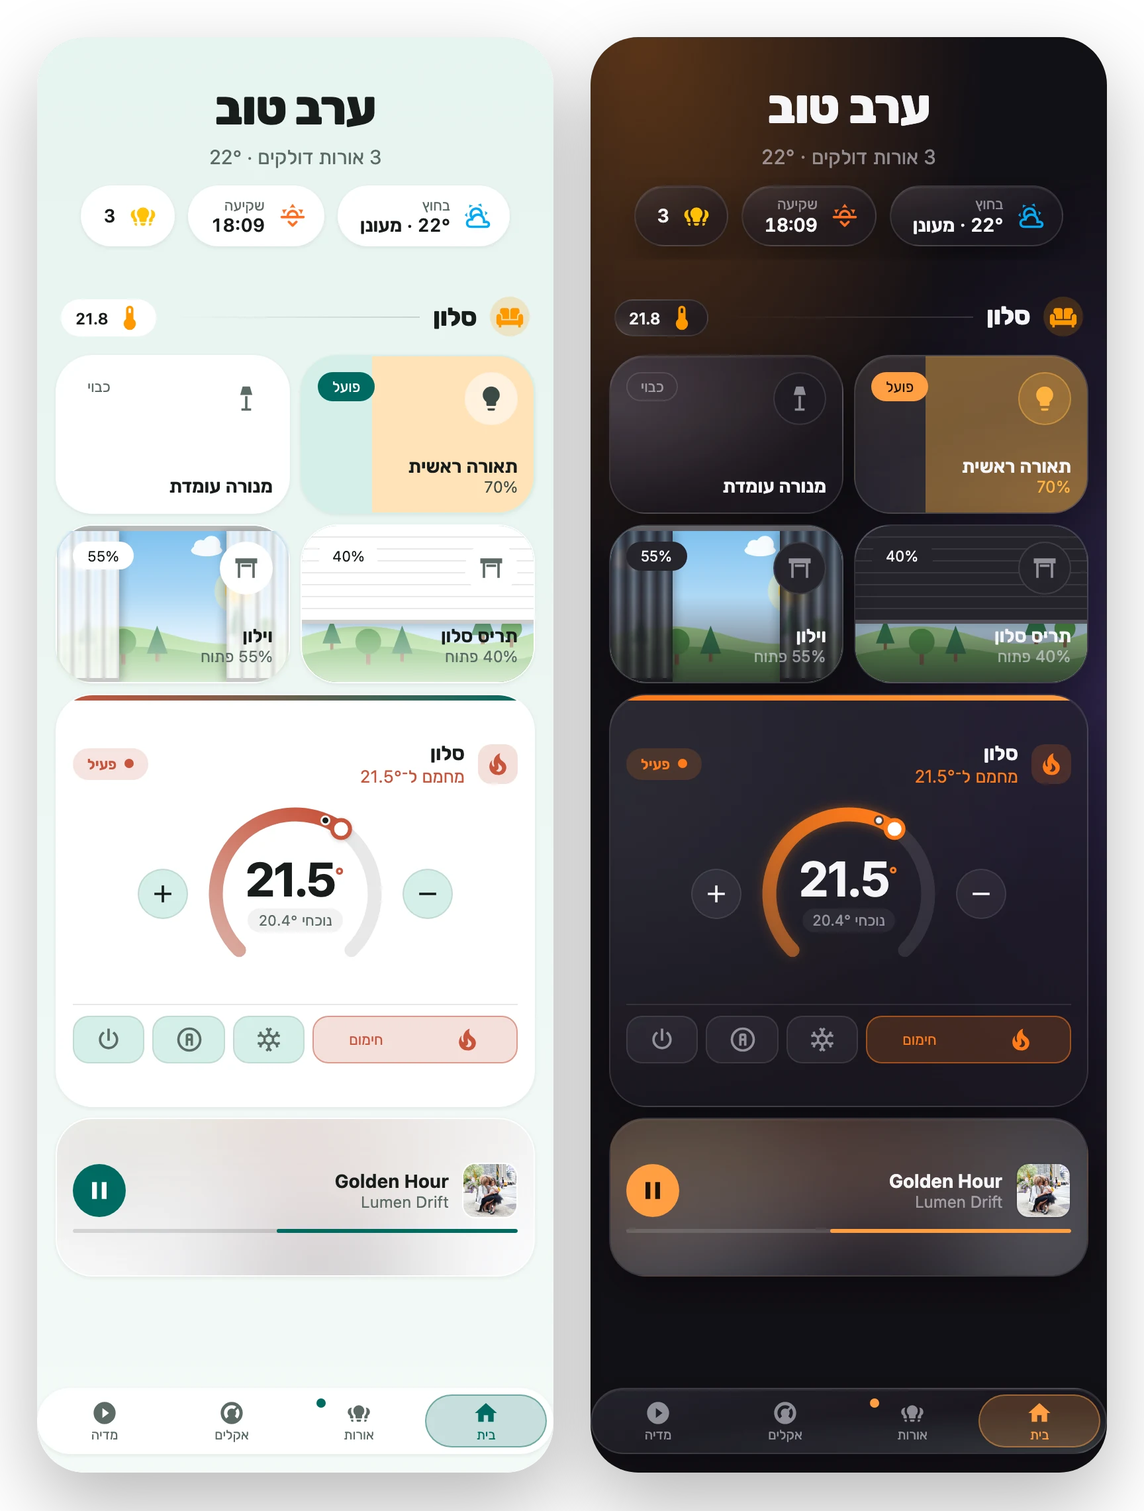
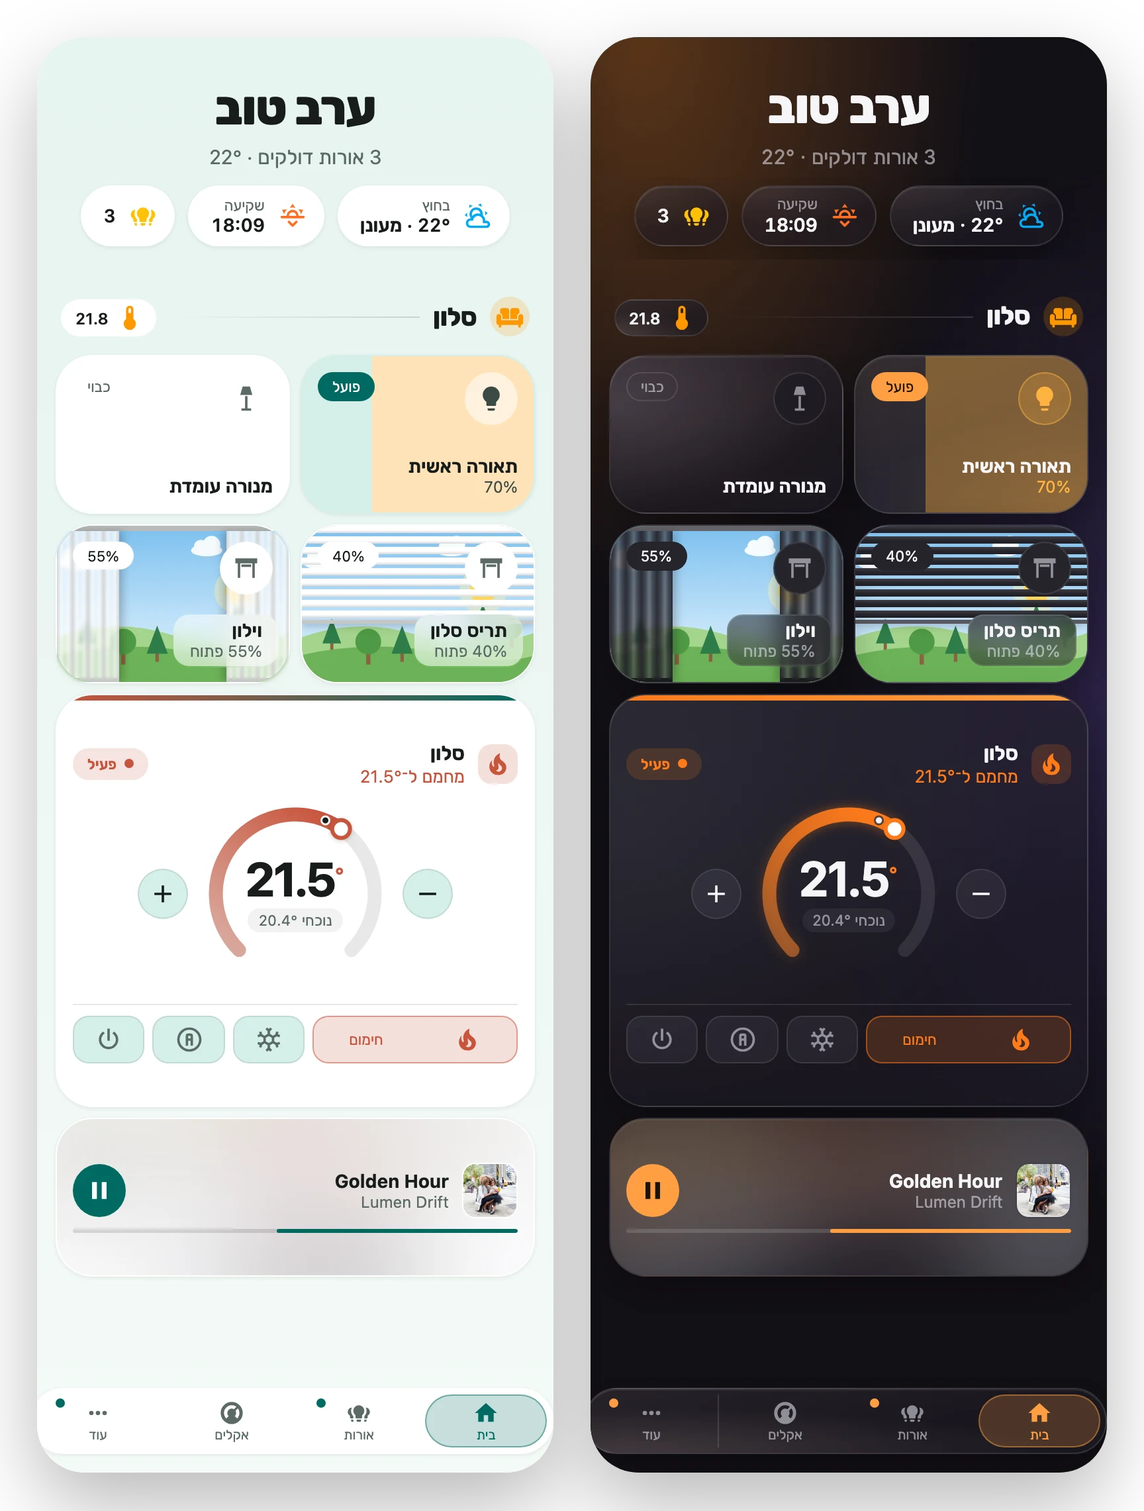
README: a GIF of all eight cover styles moving sits at the top, a What's new section (cover styles, smooth motion, More menu), refreshed screenshots (covers show every style, hero with a Venetian tile and a More menu, nav with the menu open); the nav menu now opens inwards from the bar's own centre 

diff --git a/playground/shots.ts b/playground/shots.ts
@@ -5,7 +5,7 @@ import { entity as e, getHass, patchState, replaceStates, setLanguage, subscribe
 
 type Cfg = Record<string, any>;
 type Mode = "dark" | "light";
-interface Panel { theme: string; mode: Mode; cards: Cfg[]; label?: string; short?: boolean; width?: number; height?: number }
+interface Panel { theme: string; mode: Mode; cards: Cfg[]; label?: string; short?: boolean; width?: number; height?: number; span?: number }
 
 const now = new Date().toISOString();
 const at = (h: number, m: number) => { const d = new Date(); d.setHours(h, m, 0, 0); return d.toISOString(); };
@@ -19,6 +19,12 @@ const EN = [
   e("cover.office", "open", { friendly_name: "Office Shutter", current_position: 70 }),
   e("cover.curtains", "open", { friendly_name: "Curtains", device_class: "curtain", current_position: 55 }),
   e("cover.bedroom", "open", { friendly_name: "Bedroom Drapes", device_class: "curtain", current_position: 30 }),
+  // One per cover style, for the styles GIF and stills
+  ...([
+    ["blind", "Blind"], ["bottom_up", "Bottom-up shade"], ["roman", "Roman shade"], ["venetian", "Venetian"],
+    ["shutter", "Roller shutter"], ["curtain", "Curtains"], ["curtain_side", "One-side curtain"], ["vertical", "Vertical blinds"],
+  ] as const).map(([style, name]) =>
+    e(`cover.style_${style}`, "open", { friendly_name: name, current_position: 45, ...(style === "venetian" ? { current_tilt_position: 30 } : {}) })),
   e("fan.ceiling", "on", { friendly_name: "Ceiling Fan", percentage: 66 }),
   e("switch.coffee", "off", { friendly_name: "Coffee Machine", icon: "mdi:coffee-maker" }),
   e("lock.front", "locked", { friendly_name: "Front Door" }),
@@ -69,9 +75,24 @@ const nav: Cfg = {
     { name: he ? "בית" : "Home", icon: "mdi:home", navigation_path: location.pathname },
     { name: he ? "אורות" : "Lights", icon: "mdi:lightbulb-group", navigation_path: "#lights", entity: "light.ceiling" },
     { name: he ? "אקלים" : "Climate", icon: "mdi:thermostat", navigation_path: "#climate" },
-    { name: he ? "מדיה" : "Media", icon: "mdi:play-circle", navigation_path: "#media" },
+    {
+      name: he ? "עוד" : "More", icon: "mdi:dots-horizontal", pinned: true,
+      items: [
+        { name: he ? "מדיה" : "Media", icon: "mdi:play-circle", navigation_path: "#media", entity: "media_player.living" },
+        { name: he ? "מצלמות" : "Cameras", icon: "mdi:cctv", navigation_path: "#cameras" },
+        { name: he ? "הגדרות" : "Settings", icon: "mdi:cog", navigation_path: "#settings" },
+      ],
+    },
   ],
 };
+const STYLES = ["blind", "bottom_up", "roman", "venetian", "shutter", "curtain", "curtain_side", "vertical"];
+/** One tile per cover style; fabric styles get a soft tint so they read as fabric. */
+const styleTiles = (): Cfg[] =>
+  STYLES.map((style) => ({
+    card_type: "button", entity: `cover.style_${style}`, cover_style: style,
+    ...(style === "roman" ? { color: "#c9b79c" } : style === "curtain_side" ? { color: "#8e9fb5" } : style === "curtain" ? { color: "#b38b6d" } : {}),
+    ...(style === "vertical" ? { cover_side: "end" } : {}),
+  }));
 const chips: Cfg = {
   card_type: "chips",
   chips: [
@@ -97,7 +118,7 @@ const dashboard = (he = false): Cfg[] => [
   { card_type: "heading", title: he ? "סלון" : "Living Room", icon: "mdi:sofa", color: "orange", badges: [{ entity: "sensor.living_temp", icon: "mdi:thermometer", color: "orange" }] },
   { card_type: "button", entity: "light.ceiling" },
   { card_type: "button", entity: "light.floor_lamp" },
-  { card_type: "button", entity: "cover.blinds" },
+  { card_type: "button", entity: "cover.blinds", cover_style: "venetian" },
   { card_type: "button", entity: "cover.curtains" },
   { card_type: "climate", entity: "climate.living", size: "slim" },
   { card_type: "media", entity: "media_player.living", size: "slim" },
@@ -127,17 +148,12 @@ const SHOTS: Record<string, () => Panel[]> = {
     { card_type: "button", entity: "light.kitchen", layout: "pill" },
     { card_type: "button", entity: "script.good_night", layout: "pill" },
   ]),
-  covers: () => pair([
-    { card_type: "button", entity: "cover.blinds" },
-    { card_type: "button", entity: "cover.curtains" },
-    { card_type: "button", entity: "cover.office", view: "city" },
-    { card_type: "button", entity: "cover.bedroom", color: "#b38b6d", view: "sea" },
-  ]),
+  covers: () => pair(styleTiles(), { width: 440 }),
   "covers-night": () => pair([
     { card_type: "button", entity: "cover.blinds" },
     { card_type: "button", entity: "cover.curtains" },
-    { card_type: "button", entity: "cover.office", view: "city" },
-    { card_type: "button", entity: "cover.bedroom", color: "#b38b6d", view: "sea" },
+    { card_type: "button", entity: "cover.office", view: "city", cover_style: "shutter" },
+    { card_type: "button", entity: "cover.bedroom", color: "#b38b6d", view: "sea", cover_style: "curtain_side" },
   ]),
   climate: () => pair([{ card_type: "climate", entity: "climate.living" }]),
   media: () => pair([{ card_type: "media", entity: "media_player.living" }]),
@@ -147,7 +163,7 @@ const SHOTS: Record<string, () => Panel[]> = {
     { card_type: "heading", title: "Living Room", icon: "mdi:sofa", color: "orange", badges: [{ entity: "sensor.living_temp", icon: "mdi:thermometer", color: "orange" }, { entity: "sensor.humidity", icon: "mdi:water-percent", color: "light-blue" }] },
     { card_type: "heading", title: "Blinds", subtitle: "1 open", icon: "mdi:blinds", color: "purple", style: "subtitle", tap_action: { action: "navigate", navigation_path: "#blinds" } },
   ]),
-  nav: () => pair([{ card_type: "button", entity: "light.ceiling" }, { card_type: "button", entity: "cover.blinds" }, nav], { short: false, height: 250 }),
+  nav: () => pair([{ card_type: "button", entity: "light.ceiling" }, { card_type: "button", entity: "cover.blinds" }, nav], { short: false, height: 300 }),
   sizes: () =>
     (["full", "compact", "slim"] as const).map((size) => ({
       theme: "glass", mode: "dark" as Mode, label: size, short: true,
@@ -165,6 +181,7 @@ const SHOTS: Record<string, () => Panel[]> = {
     theme: "glass", mode: "light", short: true, width: 440,
     cards: [{ card_type: "button", entity: "cover.blinds" }, { card_type: "button", entity: "cover.curtains" }],
   }],
+  "gif-styles": () => [{ theme: "glass", mode: "dark", short: true, width: 860, span: 3, cards: styleTiles() }],
   "gif-tap": () => [{
     theme: "glass", mode: "dark", short: true, width: 440,
     cards: (["shine", "ripple", "jelly", "sparks"] as const).map((fx, i) => ({
@@ -204,7 +221,7 @@ for (const p of panels) {
     el.hass = getHass();
     grid.append(el);
     const g = el.getGridOptions?.() ?? { columns: 12, rows: 1 };
-    el.style.setProperty("--cols", g.columns);
+    el.style.setProperty("--cols", p.span && cfg.card_type === "button" ? p.span : g.columns);
     if (typeof g.rows === "number") el.style.setProperty("--rows", g.rows);
     else el.style.gridRow = "auto";
     els.push(el);
@@ -215,6 +232,16 @@ subscribe((h) => els.forEach((el) => (el.hass = h)));
 // Hooks for the capture script.
 Object.assign(window, {
   setCover: (id: string, pos: number) => patchState(id, pos ? "open" : "closed", { current_position: pos }),
+  /** A position report from a moving cover (`moving` false for the last one), so the smooth glide shows. */
+  moveCover: (id: string, pos: number, opening: boolean, moving = true) =>
+    patchState(id, moving ? (opening ? "opening" : "closing") : pos ? "open" : "closed", { current_position: pos }),
+  /** Opens every nav bar's pinned menu, for the nav still. */
+  openMenus: () =>
+    document.querySelectorAll("glide-card").forEach((c: any) => {
+      const nav = c.shadowRoot?.querySelector("glide-nav") ?? c.querySelector?.("glide-nav");
+      // A pointer click (detail 1), so the menu doesn't treat it as a key press and focus a row
+      nav?.shadowRoot?.querySelector(".pinned button")?.dispatchEvent(new MouseEvent("click", { bubbles: true, composed: true, detail: 1 }));
+    }),
   openPopup: (hash: string) => { history.pushState({}, "", hash); window.dispatchEvent(new HashChangeEvent("hashchange")); },
   closePopup: () => { history.pushState({}, "", location.pathname + location.search); window.dispatchEvent(new HashChangeEvent("hashchange")); },
 });

diff --git a/dist/glide-card.js b/dist/glide-card.js
@@ -2819,7 +2819,10 @@ var Mn = [
 	constructor(...e) {
 		super(...e), this.cardType = "nav", this.onRoute = () => {
 			this.closeMenu(), this.requestUpdate();
-		}, this.stale = !1, this.touched = !1, this.closeMenu = () => {
+		}, this.stale = !1, this.touched = !1, this.menuShift = {
+			y: 0,
+			x: 0
+		}, this.closeMenu = () => {
 			this.menuFor && (this.menuFor = this.menuAnchor = void 0, window.removeEventListener("pointerdown", this.onOutside, !0), window.removeEventListener("keydown", this.onKey), window.removeEventListener("resize", this.closeMenu), this.requestUpdate());
 		}, this.onOutside = (e) => {
 			let t = e.composedPath(), n = this.renderRoot.querySelector(".menu");
@@ -2839,22 +2842,46 @@ var Mn = [
 		return this.config.items.flatMap((e) => [e.entity, ...(e.items ?? []).map((e) => e.entity)]);
 	}
 	openMenu(e, t, n) {
-		this.menuFor = e, this.menuAnchor = t, window.addEventListener("pointerdown", this.onOutside, !0), window.addEventListener("keydown", this.onKey), window.addEventListener("resize", this.closeMenu), this.requestUpdate(), this.updateComplete.then(() => {
+		this.menuFor = e, this.menuAnchor = t, window.addEventListener("pointerdown", this.onOutside, !0), window.addEventListener("keydown", this.onKey), window.addEventListener("resize", this.closeMenu), this.menuShift = {
+			y: 0,
+			x: 0
+		}, this.requestUpdate(), this.updateComplete.then(async () => {
 			let e = this.renderRoot.querySelector(".menu");
-			e && (n && e.querySelector("button")?.focus(), !U() && e.animate([{
+			if (!e) return;
+			let t = this.menuTarget(), r = e.getBoundingClientRect();
+			if (t) {
+				let n = t.right === void 0 ? t.left - r.left : r.right - t.right, i = r.bottom - t.bottom;
+				if ((Math.abs(n) > .5 || Math.abs(i) > .5) && (this.menuShift = {
+					x: n,
+					y: i
+				}, this.requestUpdate(), await this.updateComplete, e = this.renderRoot.querySelector(".menu"), !e)) return;
+			}
+			n && e.querySelector("button")?.focus(), !U() && e.animate([{
 				opacity: 0,
 				transform: `translateY(${Z}px) scale(.92)`
 			}, {
 				opacity: 1,
 				transform: "none"
-			}], Vn));
+			}], Vn);
 		});
 	}
-	menuPosition() {
+	menuTarget() {
 		let e = this.menuAnchor?.getBoundingClientRect();
+		if (!e) return;
+		let t = this.renderRoot.querySelector("nav")?.getBoundingClientRect(), n = t && t.width ? t.left + t.width / 2 : innerWidth / 2, r = Math.min(innerHeight - Z, e.top - Z);
+		return e.left + e.width / 2 > n ? {
+			bottom: r,
+			right: Math.min(innerWidth - Z, e.right)
+		} : {
+			bottom: r,
+			left: Math.max(Z, e.left)
+		};
+	}
+	menuPosition() {
+		let e = this.menuTarget();
 		if (!e) return "";
-		let t = `bottom: ${Math.max(Z, innerHeight - e.top + Z)}px;`;
-		return e.left + e.width / 2 > innerWidth / 2 ? `${t} right: ${Math.max(Z, innerWidth - e.right)}px; transform-origin: bottom right;` : `${t} left: ${Math.max(Z, e.left)}px; transform-origin: bottom left;`;
+		let { x: t, y: n } = this.menuShift, r = `bottom: ${innerHeight - e.bottom + n}px;`;
+		return e.right === void 0 ? `${r} left: ${e.left + t}px; transform-origin: bottom left;` : `${r} right: ${innerWidth - e.right + t}px; transform-origin: bottom right;`;
 	}
 	connectedCallback() {
 		super.connectedCallback(), this.observe(), Mn.forEach((e) => window.addEventListener(e, this.onRoute)), this.rendered !== void 0 && this.rendered !== Nn() && (this.stale = !0, this.requestUpdate());
@@ -4625,7 +4652,7 @@ var Cr = class extends R {
 customElements.define("glide-card-editor", Cr);
 //#endregion
 //#region src/glide-card.ts
-var wr = "0.16.0", Tr = [
+var wr = "0.16.1", Tr = [
 	"button",
 	"popup",
 	"nav",

diff --git a/src/cards/nav.ts b/src/cards/nav.ts
@@ -72,6 +72,11 @@ export class GlideNav extends GlideBase<NavCardConfig> {
   private menuFor?: NavItem;
   /** The button that opened it, which the menu sits above. */
   private menuAnchor?: HTMLElement;
+  /**
+   * Correction for a transformed ancestor, which makes it the containing block of the fixed menu
+   * instead of the viewport: measured once on open (px added to bottom and to the inline side).
+   */
+  private menuShift = { y: 0, x: 0 };
 
   setConfig(config: NavCardConfig) {
     if (!Array.isArray(config.items) || !config.items.length) throw new Error("Nav needs an `items` list");
@@ -92,10 +97,23 @@ export class GlideNav extends GlideBase<NavCardConfig> {
     window.addEventListener("pointerdown", this.onOutside, true);
     window.addEventListener("keydown", this.onKey);
     window.addEventListener("resize", this.closeMenu);
+    this.menuShift = { y: 0, x: 0 };
     this.requestUpdate();
-    this.updateComplete.then(() => {
-      const menu = this.renderRoot.querySelector<HTMLElement>(".menu");
+    this.updateComplete.then(async () => {
+      let menu = this.renderRoot.querySelector<HTMLElement>(".menu");
       if (!menu) return;
+      const want = this.menuTarget(), got = menu.getBoundingClientRect();
+      if (want) {
+        const x = want.right !== undefined ? got.right - want.right : want.left! - got.left;
+        const y = got.bottom - want.bottom;
+        if (Math.abs(x) > 0.5 || Math.abs(y) > 0.5) {
+          this.menuShift = { x, y };
+          this.requestUpdate();
+          await this.updateComplete;
+          menu = this.renderRoot.querySelector<HTMLElement>(".menu");
+          if (!menu) return;
+        }
+      }
       if (keyboard) menu.querySelector<HTMLElement>("button")?.focus();
       if (reducedMotion()) return;
       menu.animate(
@@ -133,13 +151,29 @@ export class GlideNav extends GlideBase<NavCardConfig> {
   };
 
   /** Above the button, lined up with its outer edge (the one nearer the screen edge) and kept on screen. */
-  private menuPosition() {
+  /**
+   * Where the menu's corner belongs, in viewport coordinates: lined up with the button's edge on
+   * the side of the bar it sits on, so it opens inwards.
+   */
+  private menuTarget(): { bottom: number; left?: number; right?: number } | undefined {
     const r = this.menuAnchor?.getBoundingClientRect();
-    if (!r) return "";
-    const bottom = `bottom: ${Math.max(MENU_GAP, innerHeight - r.top + MENU_GAP)}px;`;
-    return r.left + r.width / 2 > innerWidth / 2
-      ? `${bottom} right: ${Math.max(MENU_GAP, innerWidth - r.right)}px; transform-origin: bottom right;`
-      : `${bottom} left: ${Math.max(MENU_GAP, r.left)}px; transform-origin: bottom left;`;
+    if (!r) return undefined;
+    const bar = this.renderRoot.querySelector("nav")?.getBoundingClientRect();
+    const centre = bar && bar.width ? bar.left + bar.width / 2 : innerWidth / 2;
+    const bottom = Math.min(innerHeight - MENU_GAP, r.top - MENU_GAP);
+    return r.left + r.width / 2 > centre
+      ? { bottom, right: Math.min(innerWidth - MENU_GAP, r.right) }
+      : { bottom, left: Math.max(MENU_GAP, r.left) };
+  }
+
+  private menuPosition() {
+    const t = this.menuTarget();
+    if (!t) return "";
+    const { x, y } = this.menuShift;
+    const bottom = `bottom: ${innerHeight - t.bottom + y}px;`;
+    return t.right !== undefined
+      ? `${bottom} right: ${innerWidth - t.right + x}px; transform-origin: bottom right;`
+      : `${bottom} left: ${t.left! + x}px; transform-origin: bottom left;`;
   }
 
   connectedCallback() {

diff --git a/src/glide-card.ts b/src/glide-card.ts
@@ -12,7 +12,7 @@ import "./editor/editor";
 import type { GlideBase } from "./core/base-card";
 import type { GlideCardConfig, HomeAssistant } from "./core/types";
 
-const VERSION = "0.16.0";
+const VERSION = "0.16.1";
 const TYPES = ["button", "popup", "nav", "climate", "media", "chips", "title", "heading"] as const;
 
 /**

diff --git a/README.md b/README.md
@@ -4,18 +4,31 @@
 [![Release][release-badge]][release-url]
 [![License][license-badge]](https://github.com/yshaish1/glide-card/blob/main/LICENSE)
 
-**Themeable Home Assistant cards that feel like a native app.** Swipe-to-dim buttons, covers that look like real blinds and curtains, pop-up sheets, a floating nav bar, and climate and media cards. Three built-in designs, dark and light, with full RTL support.
+**Themeable Home Assistant cards that feel like a native app.** Swipe-to-dim buttons, covers that look like your real blinds and curtains, pop-up sheets, a floating nav bar, and climate and media cards. Three built-in designs, dark and light, with full RTL support.
+
+![Eight cover styles opening and closing: blind, bottom-up shade, Roman shade, Venetian, roller shutter, curtains, one-side curtain and vertical blinds](https://raw.githubusercontent.com/yshaish1/glide-card/main/docs/images/cover-styles.gif)
+
+*Your covers, the way they really open. Eight styles, moving smoothly while the motor runs. [See them all →](https://github.com/yshaish1/glide-card/blob/main/docs/cards/cover.md#styles)*
 
 ![Glide Card in Liquid Glass, Refined Bubble and Material You](https://raw.githubusercontent.com/yshaish1/glide-card/main/docs/images/hero-dark.webp)
 
 [![Open your Home Assistant instance and open this repository in HACS.][my-hacs-badge]][my-hacs-url]
+
+## What's new
+
+- **v0.16: Cover styles.** Choose how each window opens: blind, bottom-up shade, Roman shade, Venetian (the slats show the tilt), outdoor roller shutter, curtains from the middle, a one-side curtain or vertical blinds. Dragging, the plain fill and the button arrows all follow the motion. [Cover docs](https://github.com/yshaish1/glide-card/blob/main/docs/cards/cover.md#styles)
+- **v0.15.1: Smooth cover motion.** While a cover opens or closes, it glides steadily instead of jumping from one position report to the next.
+- **v0.15: "More" menu in the nav bar.** Give a nav item its own `items` list, and it opens a small glass menu above the bar. [Nav docs](https://github.com/yshaish1/glide-card/blob/main/docs/cards/nav.md)
+
+![Nav bar with the More menu open](https://raw.githubusercontent.com/yshaish1/glide-card/main/docs/images/nav.webp)
 
 ## Features
 
 - **One card, eight widgets.** Button, pop-up, nav bar, climate, media, chips, title and heading, all as `custom:glide-card`, all in the visual editor.
 - **Three designs.** Liquid Glass, Refined Bubble and Material You, each in dark and light. Switch per card or for the whole dashboard.
 - **Made for touch.** Swipe a tile to set brightness or position, hold for more-info, drag the climate dial. Haptics, plus 17 tap animations (or a random one each tap).
-- **Covers you can read at a glance.** An outdoor view behind a blind or curtains, with day and night following the sun.
+- **Covers that match your windows.** Eight open styles over an outdoor view, with day and night following the sun. They move smoothly while the motor runs.
+- **A floating nav bar.** A sliding indicator, items that scroll, and a "More" menu for everything else.
 - **Real pop-ups.** A bottom sheet on phones and a centred modal on desktop. The tile morphs into it, and any HA card works inside.
 - **Templates.** Name, icon, color, badge and secondary line accept HA templates, like Mushroom.
 - **Three sizes.** Full, compact and slim, per card or dashboard-wide.
@@ -118,7 +131,7 @@ cards:
     cards:
       - { type: custom:glide-card, card_type: button, entity: light.ceiling }
       - { type: custom:glide-card, card_type: button, entity: light.floor_lamp }
-      - { type: custom:glide-card, card_type: button, entity: cover.blinds }
+      - { type: custom:glide-card, card_type: button, entity: cover.blinds, cover_style: venetian }
       - { type: custom:glide-card, card_type: button, entity: cover.curtains }
   - type: custom:glide-card
     card_type: climate
@@ -134,7 +147,13 @@ cards:
       - { name: Home, icon: mdi:home, navigation_path: /dashboard-home/0 }
       - { name: Lights, icon: mdi:lightbulb-group, navigation_path: "#lights", entity: light.ceiling }
       - { name: Climate, icon: mdi:thermostat, navigation_path: /dashboard-home/climate }
-      - { name: Media, icon: mdi:play-circle, navigation_path: /dashboard-home/media }
+      - name: More
+        icon: mdi:dots-horizontal
+        pinned: true
+        items:
+          - { name: Media, icon: mdi:play-circle, navigation_path: /dashboard-home/media }
+          - { name: Cameras, icon: mdi:cctv, navigation_path: /dashboard-home/cameras }
+          - { name: Settings, icon: mdi:cog, navigation_path: /config }
 ```
 
 In a sections dashboard, Glide cards size themselves to the grid, so you can drop them in directly.

diff --git a/Plans/readme-v016-refresh.md b/Plans/readme-v016-refresh.md
@@ -1,0 +1,26 @@
+# README refresh for v0.16
+
+## Goal
+Put a GIF of every cover style moving right at the top of the README (seen on GitHub and on the HACS page), describe the latest features, and regenerate every screenshot so it matches the current build.
+
+## Context / Constraints
+- HACS renders the README outside GitHub: markdown images only, with absolute raw URLs (v0.14.2 / v0.14.3).
+- The top GIF shows all 8 styles moving together, in Liquid Glass dark, right after the tagline (before the hero image and the HACS button).
+- Refresh: covers still (all styles), nav with the More menu open, hero images (new cover style plus a More item), and re-run everything else.
+- `.phone` in shots.html has a transform, so the fixed nav menu was placed using the wrong coordinates. Fix that in the card: measure where the menu actually lands and shift it. That also makes it work in any transformed container.
+
+## Steps
+- [x] nav.ts: correct the menu position against its real containing block
+- [x] shots.ts: 8 style entities, `gif-styles` composition (4 × 2), `moveCover` hook (opening/closing states, so the smooth glide shows), `openMenus` hook
+- [x] shots.ts: covers / covers-night show all 8 styles; the hero dashboard uses a Venetian tile and a More menu in the nav
+- [x] screenshots.mjs: `cover-styles` GIF; the nav shot opens the menus before capture
+- [x] `npm run shots`, then review every image
+- [x] README: top GIF, What's new (v0.15–v0.16), features (8 styles, smooth motion, More menu), example dashboard nav
+- [x] docs/cards/cover.md: styles GIF/still; nav.md: menu screenshot
+- [x] Tests, build, commit, push (docs only plus a nav fix → v0.16.1 release)
+
+## Status
+Done (v0.16.1).
+
+## Open questions
+- None.

diff --git a/docs/cards/cover.md b/docs/cards/cover.md
@@ -2,7 +2,7 @@
 
 [← Back to README](../../README.md)
 
-![Covers](../images/covers.webp)
+![All eight cover styles](../images/covers.webp)
 
 A cover button with a position looks like a window. An outdoor view sits behind it, and the cover opens the way your real one does: a blind from the top, a shade from the sill, curtains from the middle or to one side, and more (see [Styles](#styles)). You can tell at a glance how open it is. You drag the way the cover opens: up and down for blinds and shades, sideways for curtains and vertical blinds.
 
@@ -26,6 +26,8 @@ Everything from [Button](button.md), plus:
 | `cover_buttons` | boolean | `false` | Open, stop and close buttons in place of the badge. |
 
 ## Styles
+
+![Eight cover styles moving](../images/cover-styles.gif)
 
 | `cover_style` | Looks like | Drag |
 | --- | --- | --- |
